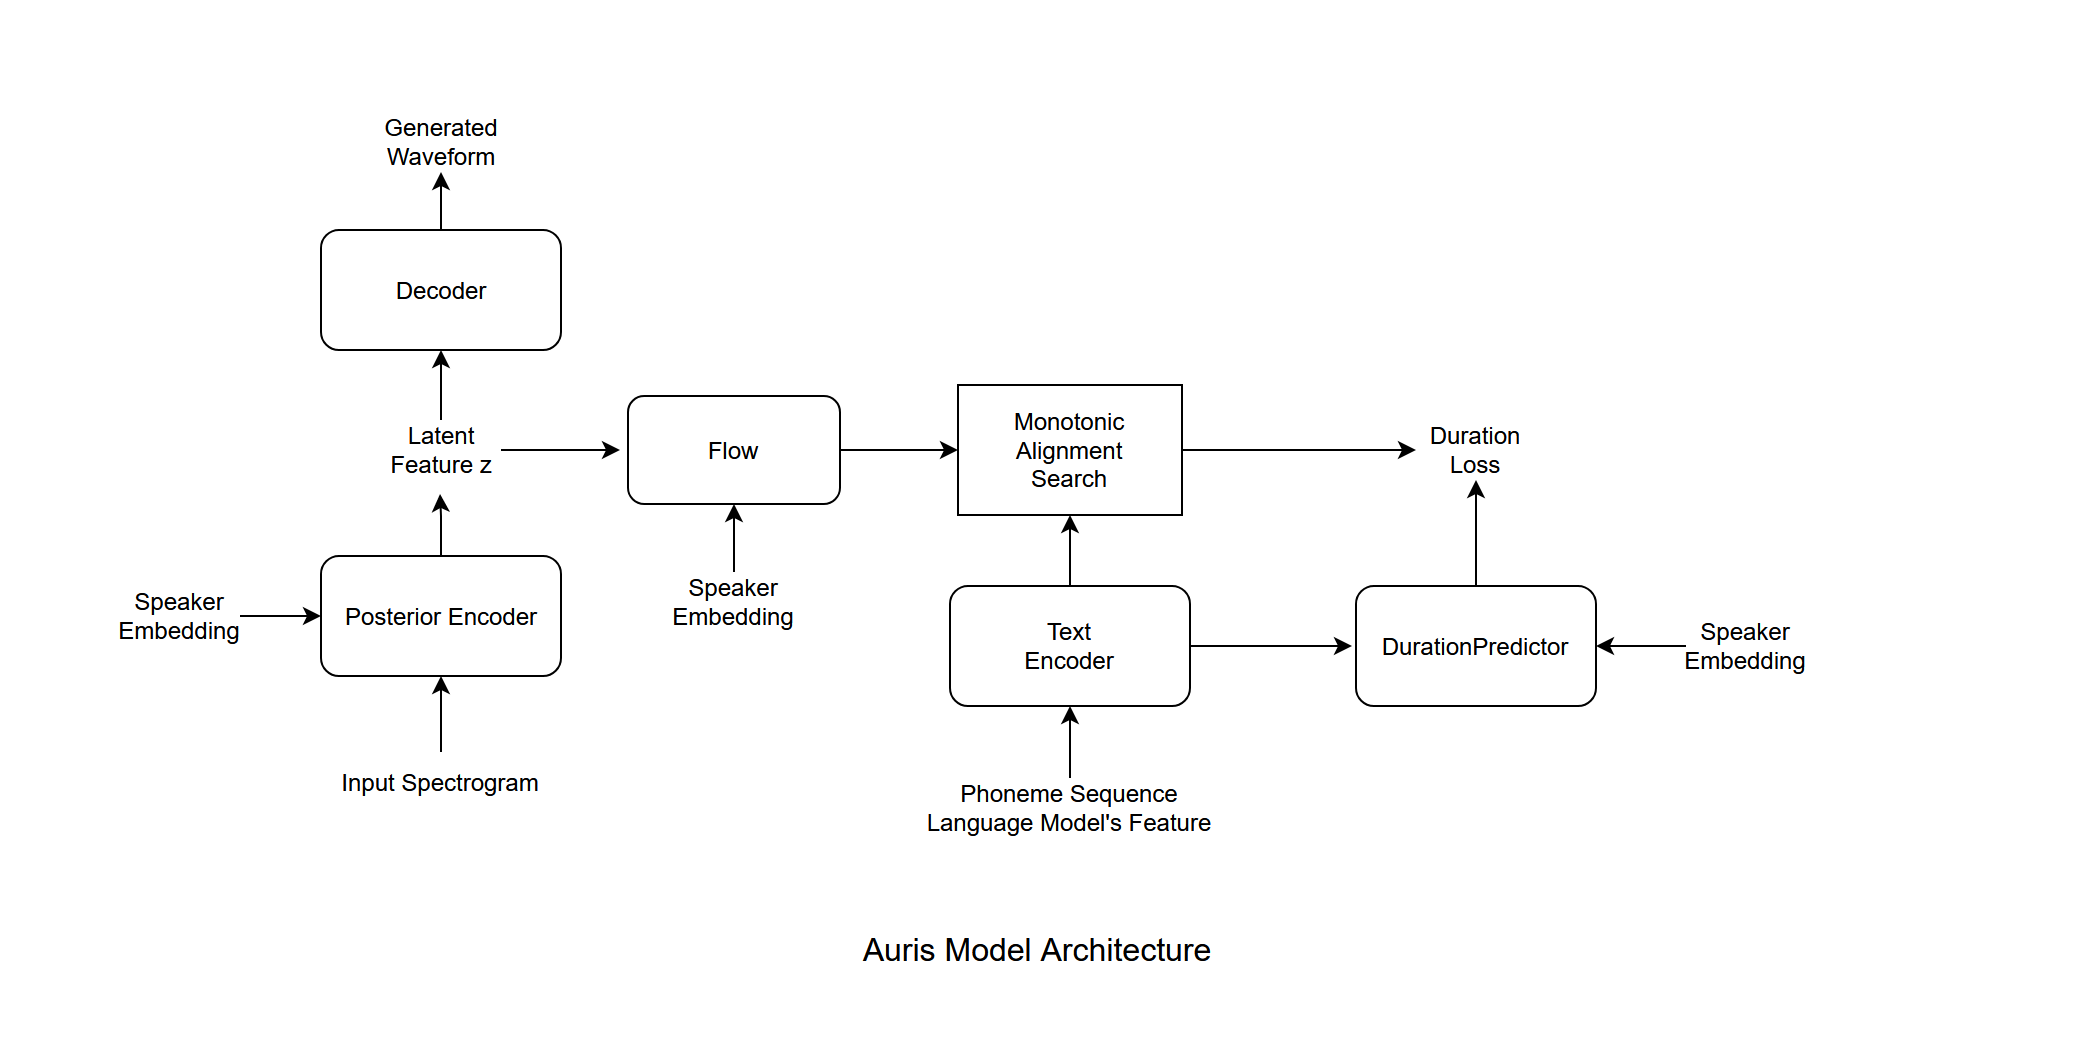
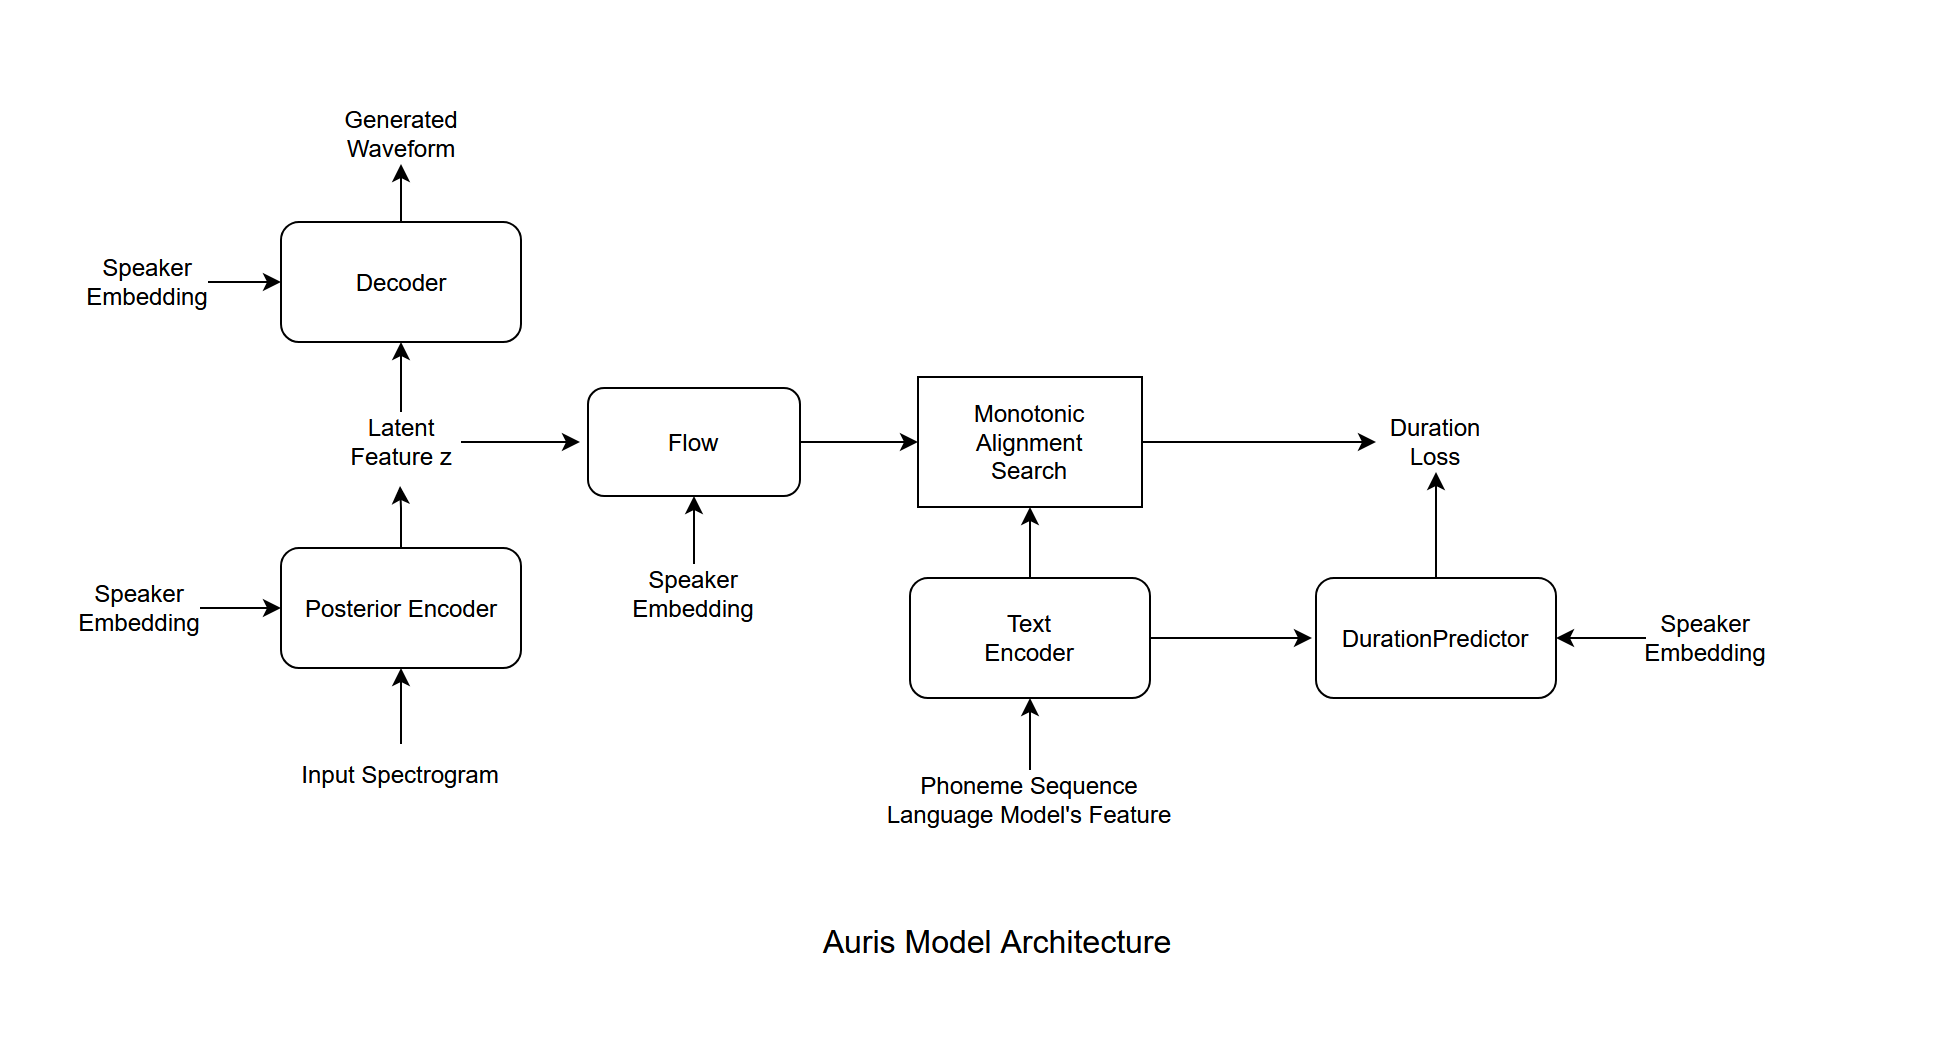
Add inferencing (audio recon.)

diff --git a/module/vits/decoder.py b/module/vits/decoder.py
@@ -106,6 +106,7 @@ class FiLM(nn.Module):
 class PitchEstimator(nn.Module):
     def __init__(self,
                  content_channels=192,
+                 speaker_embedding_dim=256,
                  internal_channels=512,
                  num_classes=512,
                  kernel_size=7,
@@ -120,7 +121,8 @@ class PitchEstimator(nn.Module):
         self.classes_per_octave = classes_per_octave
         self.min_frequency = min_frequency
 
-        self.input_layer = nn.Conv1d(content_channels, internal_channels, 1)
+        self.content_input = nn.Conv1d(content_channels, internal_channels, 1)
+        self.speaker_input = nn.Conv1d(speaker_embedding_dim, internal_channels, 1)
         self.input_norm = LayerNorm(internal_channels)
         self.mid_layers = nn.Sequential(
                 *[ConvNeXtLayer(internal_channels, kernel_size, mlp_mul) for _ in range(num_layers)])
@@ -128,8 +130,8 @@ class PitchEstimator(nn.Module):
         self.output_layer = nn.Conv1d(internal_channels, num_classes, 1)
 
     # x: [BatchSize, content_channels, Length]
-    def forward(self, x):
-        x = self.input_layer(x)
+    def forward(self, content, spk):
+        x = self.content_input(content) + self.speaker_input(spk)
         x = self.input_norm(x)
         x = self.mid_layers(x)
         x = self.output_norm(x)
@@ -154,8 +156,8 @@ class PitchEstimator(nn.Module):
         return x
     
     # x: [BatchSize, content_channels, Length]
-    def infer(self, x, k=4):
-        logits = self.forward(x)
+    def infer(self, content, spk, k=4):
+        logits = self.forward(content, spk)
         probs, indices = torch.topk(logits, k, dim=1)
         probs = F.softmax(probs, dim=1)
         freqs = self.freq2id(indices)
@@ -167,6 +169,7 @@ class PitchEstimator(nn.Module):
 class SourceNet(nn.Module):
     def __init__(self,
                  content_channels=192,
+                 speaker_embedding_dim=256,
                  internal_channels=512,
                  sample_rate=48000,
                  frame_size=960,
@@ -177,6 +180,7 @@ class SourceNet(nn.Module):
                  mlp_mul=3):
         super().__init__()
         self.content_input = nn.Conv1d(content_channels, internal_channels, 1)
+        self.speaker_input = nn.Conv1d(speaker_embedding_dim, internal_channels, 1)
         self.f0_input = nn.Conv1d(1, internal_channels, 1)
         self.input_norm = LayerNorm(internal_channels)
         self.mid_layers = nn.Sequential(
@@ -187,8 +191,9 @@ class SourceNet(nn.Module):
 
     # x: [BatchSize, content_channels, Length]
     # f0: [BatchSize, 1, Length]
-    def forward(self, x, f0):
-        x = self.content_input(x) + self.f0_input(torch.log(F.relu(f0) + 1e-6))
+    # spk: [BatchSize, speaker_embedding_dim, 1]
+    def forward(self, x, f0, spk):
+        x = self.content_input(x) + self.speaker_input(spk) + self.f0_input(torch.log(F.relu(f0) + 1e-6))
         x = self.input_norm(x)
         x = self.mid_layers(x)
         x = self.output_norm(x)
@@ -425,6 +430,7 @@ class DownBlock(nn.Module):
 class FilterNet(nn.Module):
     def __init__(self,
                  content_channels=192,
+                 speaker_embedding_dim=256,
                  channels=[512, 256, 128, 64, 32],
                  resblock_type='1',
                  factors=[5, 4, 4, 4, 3],
@@ -436,6 +442,7 @@ class FilterNet(nn.Module):
         super().__init__()
         # input layer
         self.content_input = weight_norm(nn.Conv1d(content_channels, channels[0], 1))
+        self.speaker_input = weight_norm(nn.Conv1d(speaker_embedding_dim, channels[0], 1))
         self.f0_input = weight_norm(nn.Conv1d(1, channels[0], 1))
 
         # downsamples
@@ -459,10 +466,11 @@ class FilterNet(nn.Module):
 
     # content: [BatchSize, content_channels, Length(frame)]
     # f0: [BatchSize, 1, Length(frame)]
+    # spk: [BatchSize, speaker_embedding_dim, 1]
     # source: [BatchSize, num_harmonics+2, Length(Waveform)]
     # Output: [Batchsize, 1, Length * frame_size]
-    def forward(self, content, f0, source):
-        x = self.content_input(content) + self.f0_input(torch.log(F.relu(f0) + 1e-6))
+    def forward(self, content, f0, spk, source):
+        x = self.content_input(content) + self.speaker_input(spk) + self.f0_input(torch.log(F.relu(f0) + 1e-6))
 
         skips = []
         for down in self.downs:
@@ -475,8 +483,9 @@ class FilterNet(nn.Module):
         return x
 
     def remove_weight_norm(self):
-        remove_weight_norm(self.content_in)
+        remove_weight_norm(self.content_input)
         remove_weight_norm(self.output_layer)
+        remove_weight_norm(self.speaker_input)
         for down in self.downs:
             down.remove_weight_norm()
         for up in self.ups:
@@ -489,6 +498,7 @@ class Decoder(nn.Module):
                  frame_size=960,
                  n_fft=3840,
                  content_channels=192,
+                 speaker_embedding_dim=192,
                  pe_internal_channels=512,
                  pe_num_layers=6,
                  source_internal_channels=512,
@@ -507,10 +517,12 @@ class Decoder(nn.Module):
         self.num_harmonics = num_harmonics
         self.pitch_estimator = PitchEstimator(
                 content_channels,
+                speaker_embedding_dim,
                 pe_internal_channels,
                 num_layers=pe_num_layers)
         self.source_net = SourceNet(
                 content_channels,
+                speaker_embedding_dim,
                 source_internal_channels,
                 source_num_layers,
                 frame_size,
@@ -518,6 +530,7 @@ class Decoder(nn.Module):
                 num_harmonics)
         self.filter_net = FilterNet(
                 content_channels,
+                speaker_embedding_dim,
                 filter_channels,
                 filter_resblock_type,
                 filter_factors,
@@ -530,16 +543,18 @@ class Decoder(nn.Module):
     #
     # content: [BatchSize, content_channels, Length]
     # f0: [BatchSize, 1, Length]
+    # spk: [BatchSize, speaker_embedding_dim, 1]
+    #
     # Outputs:
     #   f0_logits [BatchSize, num_f0_classes, Length]
     #   dsp_out: [BatchSize, Length * frame_size]
     #   output: [BatchSize, Length * frame_size]
-    def forward(self, content, f0):
+    def forward(self, content, f0, spk):
         # estimate pitch 
-        f0_logits = self.pitch_estimator(content)
+        f0_logits = self.pitch_estimator(content, spk)
         
         # estimate amplitudes each harmonics, noise filter kernels
-        amps, kernels = self.source_net(content, f0)
+        amps, kernels = self.source_net(content, f0, spk)
 
         # oscillate source signals
         harmonics = oscillate_harmonics(f0, self.frame_size, self.sample_rate, num_harmonics=self.num_harmonics)
@@ -550,7 +565,7 @@ class Decoder(nn.Module):
         dsp_out = source.sum(dim=1)
 
         # GAN output
-        output = self.filter_net(content, f0, source)
+        output = self.filter_net(content, f0, spk, source)
         output = output.squeeze(1)
 
         return f0_logits, dsp_out, output
@@ -563,13 +578,13 @@ class Decoder(nn.Module):
     # reference: None or [BatchSize, content_channels, NumReferenceVectors]
     # alpha: float 0 ~ 1.0
     # k: int
-    def infer(self, content, reference=None, alpha=0, k=4, metrics='cos'):
-        f0 = self.pitch_estimator.infer(content)
+    def infer(self, content, spk, reference=None, alpha=0, k=4, metrics='cos'):
+        f0 = self.pitch_estimator.infer(content, spk)
         # run feature retrieval if got reference vectors
         if reference is not None:
             content = match_features(content, reference, k, alpha, metrics)
 
-        amps, kernels = self.source_net(content, f0)
+        amps, kernels = self.source_net(content, f0, spk)
 
         # oscillate source signals
         harmonics = oscillate_harmonics(f0, self.frame_size, self.sample_rate, num_harmonics=self.num_harmonics)
@@ -577,5 +592,5 @@ class Decoder(nn.Module):
         source = torch.cat([harmonics, noise], dim=1)
 
         # filter network
-        output = self.filter_net(content, f0, source)
+        output = self.filter_net(content, f0, spk, source)
         return output

diff --git a/module/infer/__init__.py b/module/infer/__init__.py
@@ -1,3 +1,5 @@
+from typing import List, Union
+
 import torch
 import json
 from pathlib import Path
@@ -5,24 +7,71 @@ from pathlib import Path
 from safetensors import safe_open
 from safetensors.torch import save_file
 
-from module.vits import Vits
+from module.vits import Vits, spectrogram
 from module.g2p import G2PProcessor
 from module.language_model import LanguageModel
 from module.utils.config import load_json_file
 
 
 class Infer:
-    def __init__(self, config_path, metadata_path):
-        self.config = load_json_file(config)
+    def __init__(self, checkpoint_path, config_path, metadata_path, device=torch.device('cpu')):
+        self.config = load_json_file(config_path)
         self.metadata = load_json_file(metadata_path)
         self.g2p = G2PProcessor()
-        self.lm = LanguageModel(config.language_model.type, config.language_model.options)
+        self.lm = LanguageModel(self.config.language_model.type, self.config.language_model.options)
+        vits = Vits.load_from_checkpoint(checkpoint_path)
+        self.generator = vits.generator.to(device)
 
-    def audio_reconstruction(self):
-        pass
+        # TODO: load from config
+        self.max_lm_tokens = 30
+        self.max_phonemes = 50
+        self.max_frames = 2000
 
-    def text_to_speech(self):
-        pass
+        self.n_fft = self.config.generator.decoder.n_fft
+        self.frame_size = self.config.generator.decoder.frame_size
+        self.sample_rate = self.config.generator.decoder.sample_rate
+
+    def speakers(self):
+        return self.metadata.speakers
+
+    def speaker_id(self, speaker):
+        return self.speakers().index(speaker)
+
+    def languages(self):
+        return self.g2p.languages
+
+    def language_id(self, language):
+        return self.g2p.language_to_id(language)
+
+    @torch.inference_mode()
+    def text_to_speech(
+            self, text: str,
+            speaker: str,
+            language: str,
+            style_text: Union[None, str]):
+        spk = self.speaker_id(speaker)
+        lm_feat, lm_feat_len = self.lm.encode([text], self.max_lm_tokens)
+        if style_text is None:
+            style_text = text
+        phoneme, phoneme_len, lang = self.g2p.encode([style_text], [language], self.max_phonemes)
+        wf = self.generator.text_to_speech(
+                phoneme,
+                phoneme_len,
+                lm_feat,
+                lm_feat_len,
+                spk,
+                lang,
+                )
+        return wf
+
+    # wf: [1, Length]
+    def audio_reconstruction(self, wf, speaker:str):
+        spk = torch.LongTensor([self.speaker_id(speaker)])
+        wf = wf.sum(dim=0, keepdim=True)
+        spec = spectrogram(wf, self.n_fft, self.frame_size)
+        spec_len = torch.LongTensor([spec.shape[2]])
+        wf = self.generator.audio_reconstruction(spec, spec_len, spk)
+        return wf
 
     def singing_voice_conversion(self):
         pass

diff --git a/module/vits/generator.py b/module/vits/generator.py
@@ -229,7 +229,7 @@ class Generator(nn.Module):
         # decoder losses
         z_sliced = crop_features(z, crop_range)
         f0_sliced = crop_features(f0, crop_range)
-        f0_logit, dsp_out, fake = self.decoder(z_sliced, f0_sliced)
+        f0_logit, dsp_out, fake = self.decoder(z_sliced, f0_sliced, spk)
 
         # pitch estimation loss
         f0_label = self.decoder.pitch_estimator.freq2id(f0_sliced).squeeze(1)
@@ -261,9 +261,11 @@ class Generator(nn.Module):
             max_frames=2000,
             use_sdp=True
             ):
+        # encode text
         text_encoded, m_p, logs_p, text_mask = self.text_encoder(phoneme, phoneme_len, lm_feat, lm_feat_len, lang)
         spk = self.speaker_embedding(spk)
 
+        # predict duration
         if use_sdp:
             log_duration = self.stochastic_duration_predictor(text_encoded, text_mask, g=spk, reverse=True)
             duration = torch.exp(log_duration)
@@ -276,12 +278,30 @@ class Generator(nn.Module):
         MAS_node_mask = text_mask.unsqueeze(2) * spec_mask.unsqueeze(-1)
         MAS_path = generate_path(duration, MAS_node_mask).float()
 
+        # projection
         m_p = torch.matmul(MAS_path.squeeze(1), m_p.mT).mT
         logs_p = torch.matmul(MAS_path.squeeze(1), logs_p.mT).mT
 
+        # sample from gaussian
         z_p = m_p + torch.randn_like(m_p) * torch.exp(logs_p) * noise_scale
+
+        # add speaker infomation
         z = self.flow(z_p, spec_mask, spk, reverse=True)
-        fake = self.decoder.infer(z)
+
+        # decode
+        fake = self.decoder.infer(z, spk)
+        return fake
+
+    @torch.no_grad()
+    def audio_reconstruction(self, spec, spec_len, spk):
+        # embed speaker
+        spk = self.speaker_embedding(spk)
+
+        # encode linear spectrogram and speaker infomation
+        z, m_q, logs_q, spec_mask = self.posterior_encoder(spec, spec_len, spk)
+
+        # decode
+        fake = self.decoder.infer(z, spk)
         return fake
 
     @torch.no_grad()

diff --git a/infer.py b/infer.py
@@ -1,0 +1,59 @@
+from pathlib import Path
+import argparse
+
+import torch
+import torchaudio
+from torchaudio.functional import resample
+
+from module.infer import Infer
+
+parser = argparse.ArgumentParser(description="inference")
+parser.add_argument('-c', '--config', default='config/base.json')
+parser.add_argument('-t', '--task', choices=['tts', 'recon', 'svc', 'svs'], default='tts')
+parser.add_argument('-s', '--speaker', default='jvs001')
+parser.add_argument('-i', '--inputs', default='inputs')
+parser.add_argument('-o', '--outputs', default='outputs')
+parser.add_argument('-ckpt', '--checkpoint', default='models/vits.ckpt')
+parser.add_argument('-meta', '--metadata', default='models/metadata.json')
+args = parser.parse_args()
+
+outputs_dir = Path(args.outputs)
+# load model
+infer = Infer(args.checkpoint, args.config, args.metadata)
+
+# support audio formats
+audio_formats = ['mp3', 'wav', 'ogg']
+
+# make outputs directory if not exists
+if not outputs_dir.exists():
+    outputs_dir.mkdir()
+
+if args.task == 'recon':
+    print("task: Audio Reconstruction")
+    # audio reconstruction task
+    spk = args.speaker
+
+    # get input path
+    inputs_dir = Path(args.inputs)
+    inputs = []
+    for fmt in audio_formats:
+        for path in inputs_dir.glob(f"*.{fmt}"):
+            inputs.append(path)
+
+    for path in inputs:
+        print(f"Inferencing {path}")
+
+        # load audio
+        wf, sr = torchaudio.load(path)
+
+        # resample
+        if sr != infer.sample_rate:
+            wf = resample(wf, sr)
+
+        # infer
+        spk = args.speaker
+        wf = infer.audio_reconstruction(wf, spk).squeeze(1)
+
+        # save
+        save_path = outputs_dir / (path.stem + ".wav")
+        torchaudio.save(save_path, wf, infer.sample_rate)

diff --git a/docs/technical_details.md b/docs/technical_details.md
@@ -17,7 +17,6 @@ VITSをベースに改造するという形になる。
 ### 全体の構造
 ![](./images/auris_architecture.png)
 VITSの構造とほぼ同じ。
-細かい相違点としては、Decoderが話者情報を取らなくなっている。これは、学習時はPosterior Encoderが、推論時はFlowが話者情報を付与するため、Decoder側で話者情報を付与しなくてもデコードできるだろうという考えからくるものである。
 
 ### デコーダー
 ![](./images/auris_decoder.png)
